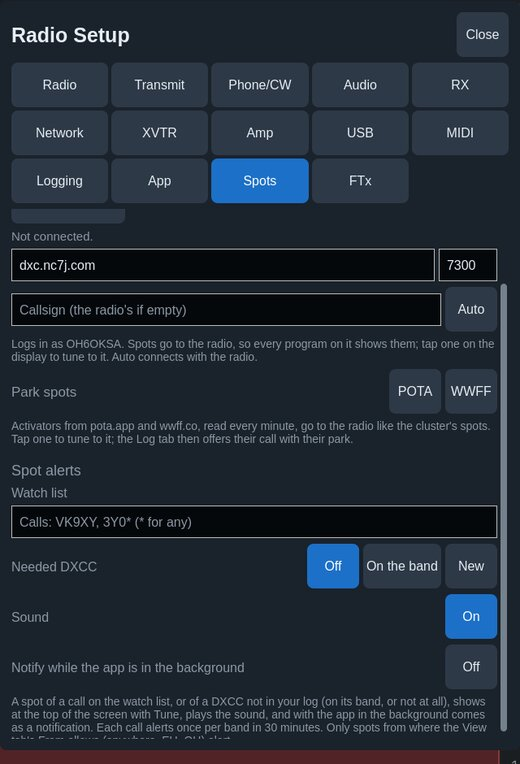
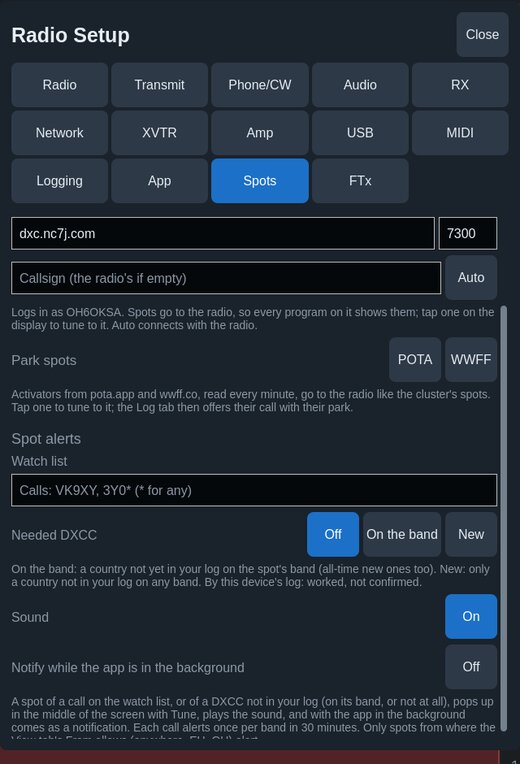
mobile: 132: the spot alert pops up in the middle of the screen; Needed DXCC says what On the band and New mean
The user after the preview: in the middle it catches the eye at every
size (at the top it covered the top row's buttons). Not a modal popup:
the page stays usable and keeps the keyboard (Space PTT).

Claude-Session: https://claude.ai/code/session_01KANojkzU64KoozGDbNDzRK

Changed region(s): [[0.0, 0.2709, 0.9846, 0.7827], [0.0308, 0.9031, 0.9538, 0.9634]]

diff --git a/mobile/qml/SpotAlertBanner.qml b/mobile/qml/SpotAlertBanner.qml
@@ -3,7 +3,7 @@ import QtQuick.Controls
 import QtQuick.Layouts
 import AetherMobile
 
-// A spot alert at the top of the screen (roadmap 132): a call on the watch
+// A spot alert in the middle of the screen (roadmap 132): a call on the watch
 // list or a needed DXCC, spotted from where Spotted from allows. Tune goes
 // to the spot (the slice's mode by the spot, as a tap on it does), × shows
 // the next one (+N more). Not a popup: it never takes the keyboard from the
@@ -14,12 +14,12 @@ Rectangle {
     readonly property var a: Engine.spotAlert
     visible: Engine.connectionState === "connected" && !!a.call
     z: 50
-    width: Math.min(parent ? parent.width - 2 * Theme.spacing : 400, 600)
+    width: Math.min(parent ? parent.width - 2 * Theme.spacing : 400, 640)
     height: row.implicitHeight + 2 * 8
     radius: Theme.radius
     color: Theme.surfaceRaised
     border.color: Theme.warning
-    border.width: 2
+    border.width: 3
     Accessible.role: Accessible.AlertMessage
     Accessible.name: visible ? qsTr("Spot alert: %1 on %2 MHz, %3").arg(a.call).arg(Number(a.mhz || 0).toFixed(3)).arg(a.why) : ""
 
@@ -37,7 +37,7 @@ Rectangle {
                 text: (banner.a.call || "") + "  " + Number(banner.a.mhz || 0).toFixed(3) + " " + (banner.a.mode || "")
                       + (banner.a.country ? "  ·  " + banner.a.country : "")
                 color: Theme.text
-                font.pixelSize: Theme.px(16)
+                font.pixelSize: Theme.px(19)
                 font.bold: true
                 elide: Text.ElideRight
             }
@@ -47,7 +47,7 @@ Rectangle {
                       + (banner.a.time ? "  " + banner.a.time + " UTC" : "")
                       + (banner.a.more > 0 ? "  ·  " + qsTr("%1 more").arg(banner.a.more) : "")
                 color: Theme.warning
-                font.pixelSize: Theme.px(13)
+                font.pixelSize: Theme.px(14)
                 elide: Text.ElideRight
             }
         }

diff --git a/mobile/qml/SpotsSetup.qml b/mobile/qml/SpotsSetup.qml
@@ -153,6 +153,14 @@ ColumnLayout {
             }
         }
     }
+    Label {
+        objectName: "spotDxccHint"
+        Layout.fillWidth: true
+        text: qsTr("On the band: a country not yet in your log on the spot's band (all-time new ones too). New: only a country not in your log on any band. By this device's log: worked, not confirmed.")
+        color: Theme.textDim
+        font.pixelSize: Theme.px(12)
+        wrapMode: Text.WordWrap
+    }
     RowLayout {
         Layout.fillWidth: true
         Label { text: qsTr("Sound"); color: Theme.textDim; font.pixelSize: Theme.px(14); Layout.fillWidth: true }
@@ -179,7 +187,7 @@ ColumnLayout {
     }
     Label {
         Layout.fillWidth: true
-        text: qsTr("A spot of a call on the watch list, or of a DXCC not in your log (on its band, or not at all), shows at the top of the screen with Tune, plays the sound, and with the app in the background comes as a notification. Each call alerts once per band in 30 minutes. Only spots from where the View tab's From allows (anywhere, %1, %2) alert.")
+        text: qsTr("A spot of a call on the watch list, or of a DXCC not in your log (on its band, or not at all), pops up in the middle of the screen with Tune, plays the sound, and with the app in the background comes as a notification. Each call alerts once per band in 30 minutes. Only spots from where the View tab's From allows (anywhere, %1, %2) alert.")
               .arg(al.ownContinent || qsTr("your continent")).arg(al.ownPrefix || qsTr("your country"))
         color: Theme.textDim
         font.pixelSize: Theme.px(12)

diff --git a/mobile/qml/Main.qml b/mobile/qml/Main.qml
@@ -56,11 +56,12 @@ ApplicationWindow {
                        : window.pagePhone ? phoneOperatePage : operatePage
     }
 
-    // A spot alert (roadmap 132) over whichever operating page is shown,
-    // under the status bar.
+    // A spot alert (roadmap 132) over whichever operating page is shown, in
+    // the middle of the screen at every size, where it catches the eye
+    // (the user, build 201's preview; at the top it covered the top row's
+    // buttons and was easy to miss).
     SpotAlertBanner {
-        anchors.horizontalCenter: parent.horizontalCenter
-        y: pages.SafeArea.margins.top + 4
+        anchors.centerIn: parent
     }
 
     // A SmartLink radio presented a different TLS certificate than the one

diff --git a/mobile/src/MobileEngineSpotAlerts.cpp b/mobile/src/MobileEngineSpotAlerts.cpp
@@ -10,7 +10,7 @@
 // passes. Alerts (Setup › Spots) take each new spot through the same place
 // filter: a call on the watch list (whole calls, * for any characters:
 // VK9XY, 3Y0*) or a DXCC not yet in the log (on the spot's band, or at all;
-// the FTx tab's New DXCC, digiNewDxcc) gives a banner at the top of the
+// the FTx tab's New DXCC, digiNewDxcc) pops up in the middle of the
 // screen (Tune goes there), a sound, and, while the app is away from the
 // front, a notification. A call alerts once per band in 30 minutes.
 

diff --git a/mobile/ROADMAP.md b/mobile/ROADMAP.md
@@ -289,7 +289,7 @@ build. The sections below hold the details.
 129. **Fixes:** A file from Google Drive (or OneDrive, Dropbox, Nextcloud) can be chosen on Android: the shared ADIF file, an ADIF import, an app setup, a MIDI mapping (the user, 2026-11-22, beta 111 on his Android 16 phone: the shared ADIF file chosen from Drive left "No file chosen", twice, and Import contacts (ADIF) with the same file did nothing: "ADIF import: cannot open QUrl(\"\")"; the log: "QML FileDialog: Cannot set  as a selected file because it doesn't exist"). Found in Qt 6.12's sources: QML FileDialog's setSelectedFiles (qquickfiledialog.cpp) refuses a file QQmlFile::urlToLocalFileOrQrc gives no path for, and on Android that function gives one for a content: URL only from the phone's own storage (com.android.externalstorage.documents, the Downloads and media providers, qqmlfile.cpp's isLocalContentAuthority); a cloud provider's URL (Drive's com.google.android.apps.docs.storage) gets none, so the choice is dropped and onAccepted gets an empty URL. The imports that worked (beta 33's 19331 contacts, beta 73's app setup) were files on the phone. iOS and the Mac are not affected (Christoph's shared file on the Mac works). The shared ADIF file's Drive check, open since build 143, is how this shows. *Pre-analysis 2026-11-22:* on Android the four Choose / Import buttons open Android's own picker (ACTION_OPEN_DOCUMENT from OksaActivity, its result handed to C++ natively as the content: URL), not QML's FileDialog; the engine's setSharedAdif, importAdif, importAppSetup and midiImport take the URL as today (QFile reads any content: URL through Qt's Android content engine; the shared file's lasting grant and ContentResolver writes as now). Elsewhere QML's FileDialog stays. Tests: the emulator (a file in Downloads through the new picker, each of the four); the user's phone with the preview: the shared ADIF file from Drive (chosen, read, an edit and its undo rewriting it, Read now's count unchanged), an ADIF import from Drive (0 new, all already in the log). The rewrite then logs its mode, and after a "w" (a provider that does not truncate) reads the file's length back: a shorter rewrite would otherwise leave the old end behind (Drive is where that matters; the phone's storage takes "wt"). Size: small to medium. Not chosen yet. *Done in the dev build:* MobileEnginePicker.cpp (pickDocument, documentPickedNative, the documentPicked signal) and OksaActivity.pickDocument / onActivityResult (request 0x129, Qt's own is 1305; read, write and persistable grants offered); LoggingSetup's Import contacts (ADIF) and Choose…, the Profiles tab's app setup Import and Radio Setup › MIDI's Import a map… ask pickDocument first and open their FileDialog only where it returns false (iOS, the Mac, the desktop); only the page that asked takes the file. *Tests:* the desktop build (the FileDialogs unchanged there, every button opens it); the Java compiled against android-36's android.jar with a QtActivity stub; Android itself needs the preview's APK (the user's phone: Drive).
 130. **Logging:** Editing or deleting a contact no longer freezes the app for seconds in a large log (the user's phone, beta 111, 2026-11-22, a 17937-contact log: Save of an edit froze the screen for 3.5 s, "GUI thread answers again after 3525 ms", and 1.3 s more). *Pre-analysis 2026-11-22:* QsoLog::replaceRecord runs on the GUI thread: it reads the whole log, replaces the record, writes it again (QSaveFile), copies the mirror and then reads and parses all of it back (the start's read of this log took 814 ms); the shared file's change already runs on a worker. Plan: the replacement and the read-back on a worker, as logging a QSO's write does (addWritten), the edit dialog saying Saving… until it is done and the list updated then; the transmit and the keys unaffected meanwhile. Tests: the render tool with a copy of a 18000-contact log (the GUI thread's stall log, the edit and the deletion found and saved), the user's phone with the preview. Size: small. Not chosen yet. *Done in the dev build:* QsoLog::replaceInFile (the file part, any thread) and applyReplace (the newest matching entry and recent record changed in memory, no read back); MobileEngine::changeQsoLog runs it on a QThread, then logs "QSO edited ... (written in N ms)", sends the change to the shared ADIF file and emits qsoLogChanged; qsoLogBusy (Saving the change… under the list, no contact opened meanwhile). *Tests* (the render tool against the FLEX, 1366×1024, an 18000-contact log in its own documents folder, the shared file a copy): edit 234 ms, the edit back 261 ms, deletion 245 ms on the worker, no GUI stall logged; the shared file followed each (18000, 18000, 17999 read); the Log tab: 17999 contacts, the deleted one gone from the list; both files 17999 records, the contact gone. The failure: the contact removed from the file behind the app: "QSO not edited: OH0TEST (not found or not written)" and the Not saved message, the list unchanged. Not seen in a picture: Saving the change… (the write was over before the shot).
 131. **Display:** The Controls tabs keep what is used while operating; settings changed seldom move to Setup, each tab with one button to its place there, as the Log tab's *Logbooks…* (the user, 2026-11-22: "turhaan controls valikossa", "aina yhdellä painikkeella päästään valikkoon missä muutoksia tehdään ja näin saadaan enemmän tilaa"). *Pre-analysis 2026-11-22:* (a) Log: *Share the log (ADIF)* and the log file's line to Setup › Logging (Logbooks… already opens it). (b) CW: Key (Straight key / Paddles), Iambic A / B, Swap and Paddles on a keyboard to Setup › Phone/CW, as the app's keying; the CW tab keeps the call, typing and memories, Speed, Pitch, Sidetone, Break-in and the decoder, and gets *Keying…*. (c) View: the DX cluster's server, login and Auto, and Park spots' POTA / WWFF reading to a new Setup › Spots tab (what this device fetches and puts on the radio); the View tab keeps what the display shows: *Spots shown* becomes the sources to show, Cluster, POTA, WWFF and Other (by each spot's source field), with *Spot sources…* to Setup. Why spots show with this device's cluster and park spots off (the user's question): spots are the radio's; the iPad's own cluster put them there ("spot add ... source=DXCluster" from ios200) and the radio keeps each for its lifetime (1800 s), so every program on the radio shows them; Other would also name SmartSDR's or another program's. (d) FTx: *Auto stops after N min untouched*, *Answer CQ calls each station N times* and *Report to PSK Reporter* to a new Setup › FTx tab; the FTx tab gets *FTx settings…*. Setup's tabs then by name, not index (openSetup(10) for Logging today). (e) TX: the PTT key row to Setup › Transmit (this device's part). (f) View: Theme, Text size, Hints, Band plan and Zoom buttons to a new Setup › Display tab, the View tab getting *Display settings…* (the user chose (e) and (f) with the rest, 2026-11-22). Setup › Phone/CW already has the radio's Iambic (Off / A / B) and Swap paddles, which the app's keyer follows: the CW tab's own Iambic and Swap row goes, not moved. A change to Classic's controls: the user's own item, documented. Tests: every moved control by its button at phone and tablet sizes against the FLEX, the old tabs' freed height measured, focussweep (the keyboard back to the page), the manual's tab and setup pictures again. Size: medium. Not chosen yet. *Done in the dev build:* new Setup tabs App (11), Spots (12) and FTx (13), after Logging so the others keep their numbers (AppSetup.qml, SpotsSetup.qml, FtxSetup.qml), and this device's part first in Transmit (PttKeySetup.qml) and Phone/CW (CwKeyingSetup.qml), each under a heading, the note under the tabs saying whose settings a tab holds; the tab grid 14 / 7 / 5 / 4 / 3 columns (7 elided "Phone/CW" on the iPad's 620 px). The tabs' buttons: View *Theme, text size, band plan…* (11) and *Spot sources…* (12, ✓ while the cluster is connected), CW *Keying: paddles… / straight key…* (2), TX *PTT key: F2… / PTT key…* (1), the FTx tab's *Auto stops 10 min · 5 calls · PSK Reporter off…* (13, under More); the Log tab's Share the log and log file line to the top of Setup › Logging. The CW tab's own Iambic / Swap row went (Setup › Phone/CW's radio Iambic and Swap paddles are the same settings). Felt taps and New versions went to App with the rest of the View tab's settings around them. Spots: the engine's spotSources (cluster = source DXCluster, pota, wwff, other) in MobileSpotSources, the old MobileShowSpots read as all or none; showSpots is any. The manual (Controls › View, CW, TX, FTx, Log; Setup's App, Spots, FTx and the device parts; every path to a moved setting), the README, the in-app cluster hints and the screenshot runs (setup-app, setup-spots, setup-ftx, setup-phonecw, setup-transmit; park-spots through Spot sources…) follow. *Tests* (the render tool against the FLEX): at 1366×1024 and 430×932 every button to its Setup tab (openAppSetup, openSpotsSetup, openCwKeying, openPttKey, openFtxSetup, logLogbooks), every new tab shown, no QML warning; Setup's tab rows 7 + 7 (iPad, Phone/CW elided, then fixed to 5 + 5 + 4) and 4 + 4 + 4 + 2 (phone, whole); the spot filter with three test spots (source OksaSDR-test = Other): shown, Other off: none, on: all three, the test spots cleared; the keyboard back on the page after each Setup (keyboardOnPage true, three times), focussweep 0 kept; PTT key Learn / Cancel from Setup › Transmit.
-132. **Spots:** Spot alerts and the spotter's place (the user, 2026-11-22, for later: "metsästää tiettyä asemaa spottina ... kun vk9xy on äänessä tulisi siitä spotti häly tai jos metsästän puuttuvaa dxcc"; "filteröidä ... kun olen itse OH maassa ... spotti on OH:sta annettu, koska silloin se on mahdollista kuulla"). *Pre-analysis 2026-11-22:* every spot the display gets is the radio's (spotSources, 131) with its call, frequency, mode, comment and spotter. (a) **Alerts**: a watch list of calls (VK9XY, a prefix such as 3Y0 or a wildcard), and *a DXCC not yet worked* (on this band / mode, or at all), by the same cty lookup and log the FTx tab's New DXCC uses (digiNewDxcc); an alert once per call and band in a while: a banner in the app with a tap that tunes there (as a spot tap), a sound, and a notification while the app is in the background (iOS's local notifications, Android's: the app already asks for notifications for its background receive). (b) **The spotter's place**: the spotter's call through the cty lookup (country, continent, CQ zone), and a choice of which spots show and alert: *anywhere*, *my continent*, *my country* (the radio's callsign's, OH for the user) or chosen countries, since a station spotted near you is one you can hear; a cluster's own filter (AR-Cluster's / DX Spider's accept commands) could do the same at the source for its spots, the app's own covers the radio's spots from any source. Where: Setup › Spots for the watch list, the alert switches and the spotter filter; View's Spots shown keeps the display's choice. Tests: the render tool with test spots of given calls and spotters (spottest), a cluster on air, the background notification on an iPhone and Android. Size: medium. Not chosen yet; for later (the user: "jatkokehitykseen"). *Chosen for build 201* (the user, 2026-11-22: "Lisätään tähän vielä kuitenkin 132"). *Done in the dev build:* MobileEngineSpotAlerts.cpp: spotFrom (MobileSpotFrom: anywhere / continent / country, by the cty lookup of the spotter's call with a skimmer's -# or an SSID dropped; an unknown place passes) in spots() and the alerts; the watch list (MobileSpotWatch, whole calls, * and ? as wildcards over the whole call), Needed DXCC (MobileSpotAlertDxcc off / band / any through digiNewDxcc), sound (qrc:/sounds/spot-alert.wav, two short tones made for the app) and the background notification (LocalNotify: iOS UNUserNotificationCenter in ios/LocalNotify.mm, asked for when turned on; Android Platform.postNotification, channel "Spot alerts"; nothing elsewhere); each SpotModel::spotAdded checked; once per call and band in 30 min; a queue of 20 (× the next, held: all). SpotAlertBanner.qml at the top of the window, not a popup (the page keeps the keyboard). View: *From* (Anywhere, the own continent, the own prefix) under the age row; Setup › Spots: Spot alerts (Watch list, Needed DXCC, Sound, Notify). The render tool's spottest takes spot=CALL,MHZ,SPOTTER,SOURCE[,MODE] (clear takes them off, also by the comment "test"). *Tests* (the render tool against the FLEX, 1366×1024, by the controls): the watch list typed in Setup › Spots ("VK9XY, 3Y0*"), Needed DXCC *On the band*; spots: VK9XY by OH2BH: "on your watch list"; 3Y0J by DL1ABC: on the list; K3Y0X by W1AW: not by the list (the pattern is the whole call), but "a new DXCC" (the test log has no USA on 20 m: the band rule); ZL2ABC by G4ABC: "a new DXCC"; the banner showed the newest with "3 more", × the next, Tune: slice A to 14.025 CW; From *OH*: ZS1ABC by W1ABC neither shown nor alerted, ZS6XYZ by OH2BH shown and alerted, on the display only OH2BH's spots; the settings put back by the controls. Not here: the sound heard (the VM's sink), the background notification (iOS and Android devices with the preview).
+132. **Spots:** Spot alerts and the spotter's place (the user, 2026-11-22, for later: "metsästää tiettyä asemaa spottina ... kun vk9xy on äänessä tulisi siitä spotti häly tai jos metsästän puuttuvaa dxcc"; "filteröidä ... kun olen itse OH maassa ... spotti on OH:sta annettu, koska silloin se on mahdollista kuulla"). *Pre-analysis 2026-11-22:* every spot the display gets is the radio's (spotSources, 131) with its call, frequency, mode, comment and spotter. (a) **Alerts**: a watch list of calls (VK9XY, a prefix such as 3Y0 or a wildcard), and *a DXCC not yet worked* (on this band / mode, or at all), by the same cty lookup and log the FTx tab's New DXCC uses (digiNewDxcc); an alert once per call and band in a while: a banner in the app with a tap that tunes there (as a spot tap), a sound, and a notification while the app is in the background (iOS's local notifications, Android's: the app already asks for notifications for its background receive). (b) **The spotter's place**: the spotter's call through the cty lookup (country, continent, CQ zone), and a choice of which spots show and alert: *anywhere*, *my continent*, *my country* (the radio's callsign's, OH for the user) or chosen countries, since a station spotted near you is one you can hear; a cluster's own filter (AR-Cluster's / DX Spider's accept commands) could do the same at the source for its spots, the app's own covers the radio's spots from any source. Where: Setup › Spots for the watch list, the alert switches and the spotter filter; View's Spots shown keeps the display's choice. Tests: the render tool with test spots of given calls and spotters (spottest), a cluster on air, the background notification on an iPhone and Android. Size: medium. Not chosen yet; for later (the user: "jatkokehitykseen"). *Chosen for build 201* (the user, 2026-11-22: "Lisätään tähän vielä kuitenkin 132"). *Done in the dev build:* MobileEngineSpotAlerts.cpp: spotFrom (MobileSpotFrom: anywhere / continent / country, by the cty lookup of the spotter's call with a skimmer's -# or an SSID dropped; an unknown place passes) in spots() and the alerts; the watch list (MobileSpotWatch, whole calls, * and ? as wildcards over the whole call), Needed DXCC (MobileSpotAlertDxcc off / band / any through digiNewDxcc), sound (qrc:/sounds/spot-alert.wav, two short tones made for the app) and the background notification (LocalNotify: iOS UNUserNotificationCenter in ios/LocalNotify.mm, asked for when turned on; Android Platform.postNotification, channel "Spot alerts"; nothing elsewhere); each SpotModel::spotAdded checked; once per call and band in 30 min; a queue of 20 (× the next, held: all). SpotAlertBanner.qml in the middle of the window (first at the top; the user after the preview: "pop up hälytyksestä keskitettynä", to catch the eye at every size), not a modal popup (the page keeps the keyboard and stays usable under it). View: *From* (Anywhere, the own continent, the own prefix) under the age row; Setup › Spots: Spot alerts (Watch list, Needed DXCC, Sound, Notify). The render tool's spottest takes spot=CALL,MHZ,SPOTTER,SOURCE[,MODE] (clear takes them off, also by the comment "test"). *Tests* (the render tool against the FLEX, 1366×1024, by the controls): the watch list typed in Setup › Spots ("VK9XY, 3Y0*"), Needed DXCC *On the band*; spots: VK9XY by OH2BH: "on your watch list"; 3Y0J by DL1ABC: on the list; K3Y0X by W1AW: not by the list (the pattern is the whole call), but "a new DXCC" (the test log has no USA on 20 m: the band rule); ZL2ABC by G4ABC: "a new DXCC"; the banner showed the newest with "3 more", × the next, Tune: slice A to 14.025 CW; From *OH*: ZS1ABC by W1ABC neither shown nor alerted, ZS6XYZ by OH2BH shown and alerted, on the display only OH2BH's spots; the settings put back by the controls. Not here: the sound heard (the VM's sink), the background notification (iOS and Android devices with the preview).
 
 Ideas to analyse before they get a number (2026-11-09: a number only after a pre-analysis):
 - From Ian Gilchrist VK1HF's own build (mail 2026-11-09, his code GPLv3, offered as a branch): two SmartLink accounts with favourite radios that connect in one tap (now 62); Sign out as one tap with a confirmation (our two-tap "Sign out?" is easy to miss on a phone); the CW repeat's pause timed from the radio unkeying (cwx sent= at the batch's end, then TX off for 800 ms) rather than from the queue emptying; an RX jitter buffer over SmartLink (Off / 100 / 200 / 400 ms, upstream discussion #6537). His build b5 (mail 2026-11-10): the Connect page out of shape with Android's font size above the default ("OksaSDR" and the version overlapping, a radio card's email line through its border; fixed here in build 163, see there; his own fix also let the system size only shrink the phone layout's text and gave View › Text size 90 %, not taken); hiding the demo radio: now 56.

diff --git a/mobile/android/RELEASE_NOTES.md b/mobile/android/RELEASE_NOTES.md
@@ -3,7 +3,7 @@
 ### New in beta 112
 - **The Controls tabs keep what you use while operating** (roadmap 131, the user's idea): the settings changed seldom moved to Setup, and each tab has one button to its place there, as the Log tab's *Logbooks…*. View › **Theme, text size, band plan…** opens Setup › **App** (Theme, Text size, Zoom buttons, Band plan and its lock, Felt taps, Hints, New versions); View › **Spot sources…** opens Setup › **Spots** (the DX cluster and the POTA / WWFF park spots this device reads); CW › **Keying…** opens Setup › Phone/CW (Straight key or Paddles, Paddles on a keyboard, above the radio's Iambic and Swap); TX › **PTT key…** opens Setup › Transmit (Learn / Clear); the FTx tab's settings button (under More) opens Setup › **FTx** (Auto stops, Answer CQ's calls, PSK Reporter); **Share the log (ADIF)** is in Setup › Logging.
 - **Spots shown by where they came from** (roadmap 131): View › **Spots shown** has **Cluster**, **POTA**, **WWFF** and **Other** (SmartSDR's, another program's), in place of one Shown / Hidden switch that did not say it had to be on. Every spot is the radio's: what your other devices and programs put there shows too, which is why spots showed with this device's cluster off.
-- **Spot alerts and the spotter's place** (roadmap 132, the user's idea): Setup › Spots › **Watch list** takes the calls you hunt (*VK9XY, 3Y0\**, `*` for any characters) and **Needed DXCC** a DXCC not yet in your log (*On the band* or *New*). Such a spot shows at the top of the screen with the call, frequency, country and why; **Tune** goes to it, **×** shows the next; a short **sound**, and with **Notify while the app is in the background** a notification. Each call alerts once per band in 30 minutes. View's **From** keeps the display and the alerts to spots given *anywhere*, on your continent or in your country (by the radio's callsign), since a station spotted near you is one you can hear; each source button now shows how many spots the radio has from it.
+- **Spot alerts and the spotter's place** (roadmap 132, the user's idea): Setup › Spots › **Watch list** takes the calls you hunt (*VK9XY, 3Y0\**, `*` for any characters) and **Needed DXCC** a DXCC not yet in your log (*On the band* or *New*). Such a spot pops up in the middle of the screen with the call, frequency, country and why; **Tune** goes to it, **×** shows the next; a short **sound**, and with **Notify while the app is in the background** a notification. Each call alerts once per band in 30 minutes. View's **From** keeps the display and the alerts to spots given *anywhere*, on your continent or in your country (by the radio's callsign), since a station spotted near you is one you can hear; each source button now shows how many spots the radio has from it.
 - **A closed slice takes its empty panadapter with it** (roadmap 127; found when an iPad held all four of a FLEX-6600M's panadapters, three of them empty, and this app on a phone got none): **Close slice** on a slice that was alone on its panadapter closes the panadapter too, unless it is the last. And when the radio has no panadapter to give, the app now says why and what helps (close one on your other device or in SmartSDR) instead of only "The radio allows 4 panadapters".
 - **Files from Google Drive, OneDrive, Dropbox and Nextcloud can be chosen** (roadmap 129; found testing the shared ADIF file): the file picker dropped a file from a cloud drive, so **Choose…** for the shared ADIF file stayed *No file chosen* and **Import contacts (ADIF)** imported nothing; only files on the phone worked. These buttons, and an app setup's **Import** and a MIDI map's, now open Android's own picker, which gives any of them.
 - **Editing a contact no longer freezes the app** (roadmap 130): **Save** or **Delete** in a large log (17 937 contacts held the screen for 3.5 s) now writes the log in the background; *Saving the change…* shows under the list until it is done.

diff --git a/docs/mobile/MANUAL.md b/docs/mobile/MANUAL.md
@@ -2906,8 +2906,9 @@ tab holds.
     (*VK9XY, 3Y0\**; a pattern is the whole call: *3Y0\** is 3Y0J, not
     K3Y0X). **Needed DXCC**: *Off*, *On the band* (a DXCC not yet in the
     log on the spot's band) or *New* (not in the log at all), by the same
-    log and country list as the FTx tab's *New DXCC*. A spot of either,
-    from where the View tab's *From* allows, shows at the top of the
+    log and country list as the FTx tab's *New DXCC*; worked counts, not
+    confirmed (the line under the buttons says so). A spot of either,
+    from where the View tab's *From* allows, shows in the middle of the
     screen: the call, frequency, mode and country, why, the spotter and
     the time; **Tune** goes to it (as a tap on the spot), **×** shows the
     next (*N more*; held, clears them all). **Sound** plays two short
@@ -2916,7 +2917,7 @@ tab holds.
     iOS asks for permission). Each call alerts once per band in 30
     minutes.
 
-    ![A spot alert at the top of the screen](manual/spot-alert.jpg)
+    ![A spot alert in the middle of the screen](manual/spot-alert.jpg)
     ![Setup › Spots › Spot alerts](manual/setup-spot-alerts.jpg)
 
   ![Radio Setup › Spots](manual/setup-spots.jpg)
